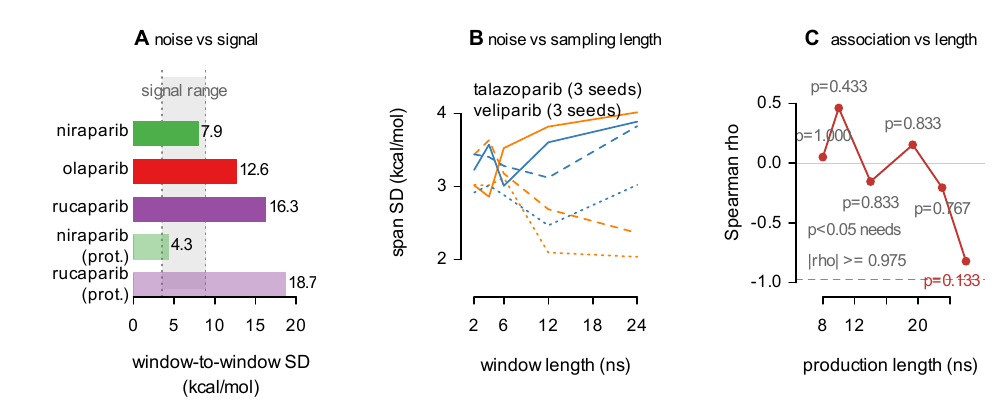
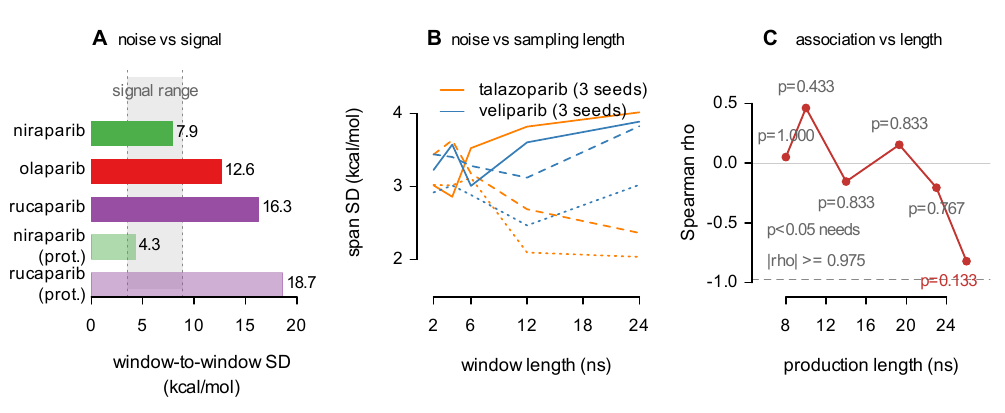
S17: widen three panels / reduce inter-panel margins (mar left 4.6->3.0) for style consistency

diff --git a/docs/standardisation_report.md b/docs/standardisation_report.md
@@ -235,3 +235,9 @@ Executed after the main round, same approval:
   (tick-to-title 26.3 -> 11.0 pt; title-to-legend 13.0 -> 11.0 pt) via explicit
   ``axis.title.x`` / ``axis.text.x`` / ``legend.margin`` margins. Re-rendered; 8-pt and geometry
   checks clean; manuscript recompiled (57 pp).
+- **S17 panel spacing (user-requested).** The three-panel layout had oversized inter-panel margins
+  (edge-to-edge gaps 79/76 pt vs ~30 pt in the ggplot figures). Margins unified to
+  ``mar = c(4.2, 3.0, 2.5, 0.5)`` for all three panels: each plot region +~20 pt wider, gaps
+  reduced to 58/54 pt (visual whitespace 22/18 pt), consistent with the journal style. Labels
+  re-verified collision-free; all previous S17 fixes (3-decimal p labels, rightmost-label shift,
+  two-line title) retained; SI recompiled (25 pp).
